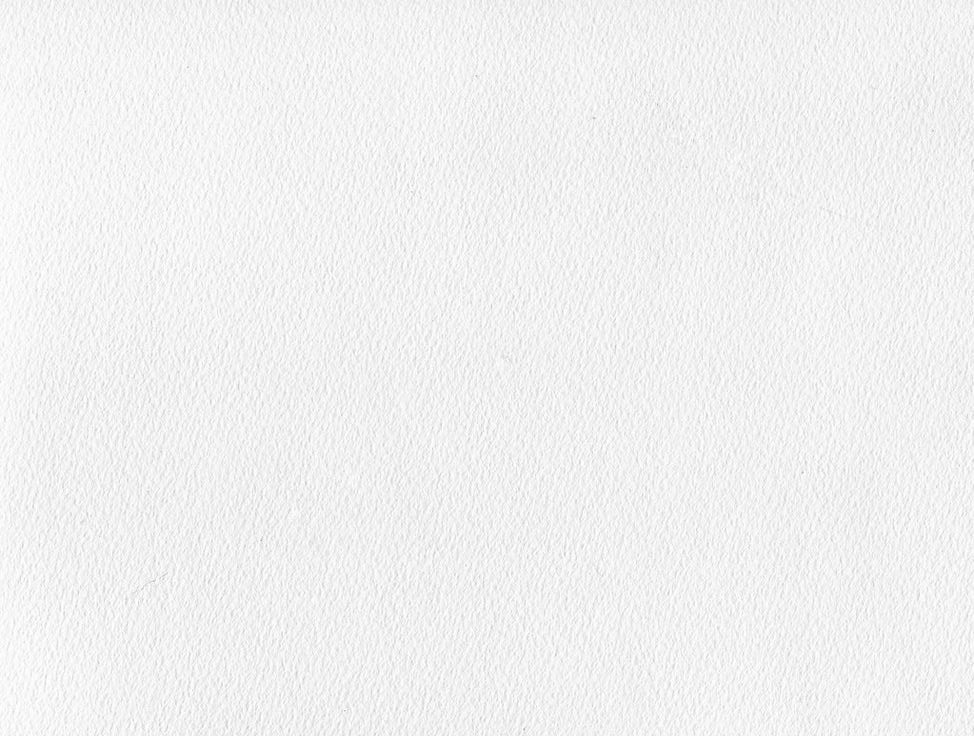
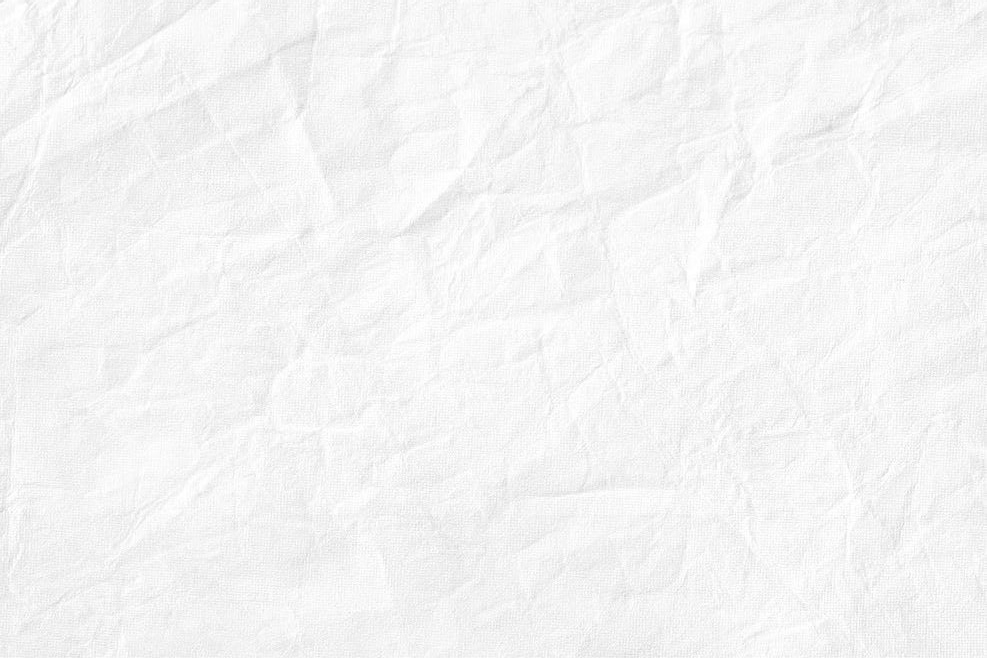
bug fix 1

diff --git a/style.css b/style.css
@@ -9,7 +9,7 @@ body {
     /* font-family: 'Waiting for the Sunrise', cursive; */
     font-family: 'Gloria Hallelujah', cursive;
     font-size: 20px;
-    background-image: url(./assets/background2.jpg);
+    background-image: url(./assets/background.jpg);
 }
 
 .section-1{
@@ -52,6 +52,11 @@ body {
 }
 .section-4{
     background-color: purple;
+}
+
+#image1 {
+    /* padding:auto; */
+    height:60vh;
 }
 
 img {

diff --git a/index.html b/index.html
@@ -27,7 +27,7 @@
 
         <div class="section-2">
             <!-- <img class="section-2-image" /> -->
-            <div id ="image1" style="margin:auto"></div>
+            <div id ="image1" style="margin:auto></div>
             <div id="section-2-img" style="height:40vh"></div>
         </div>
 
